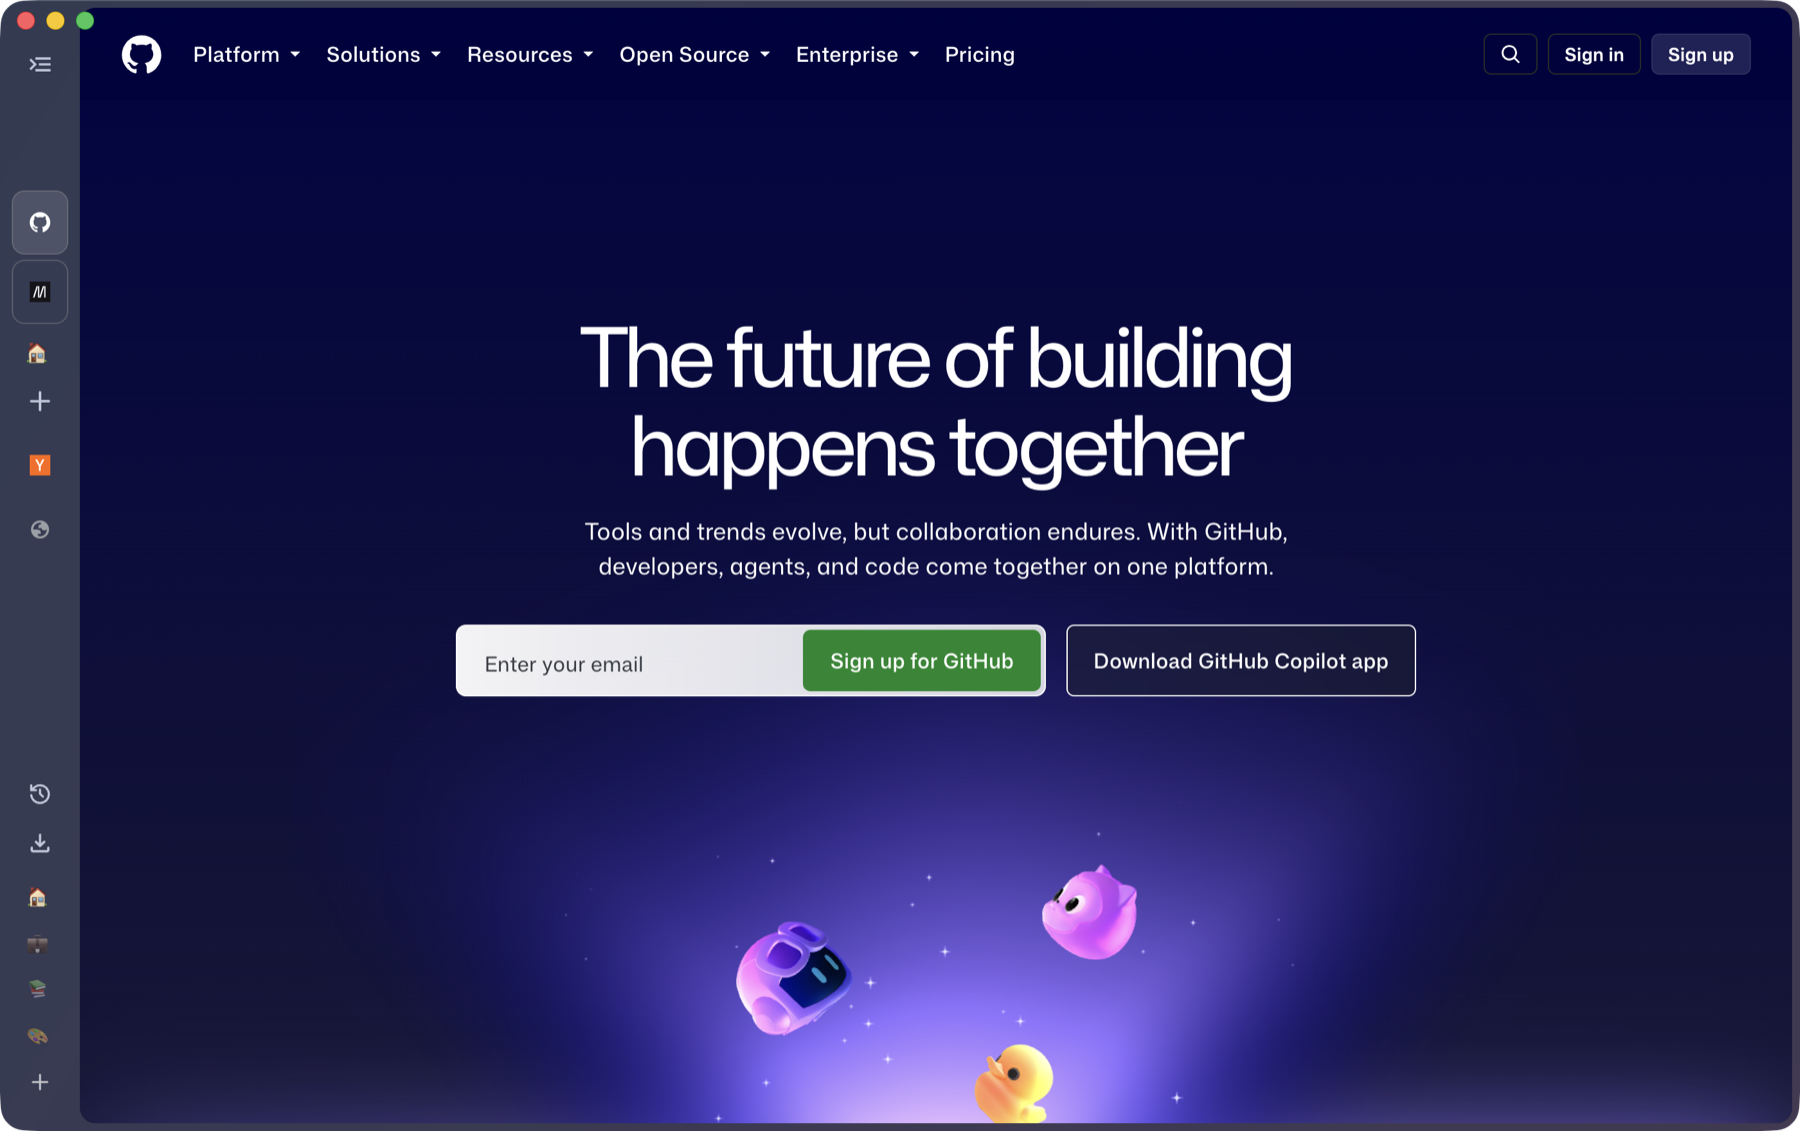
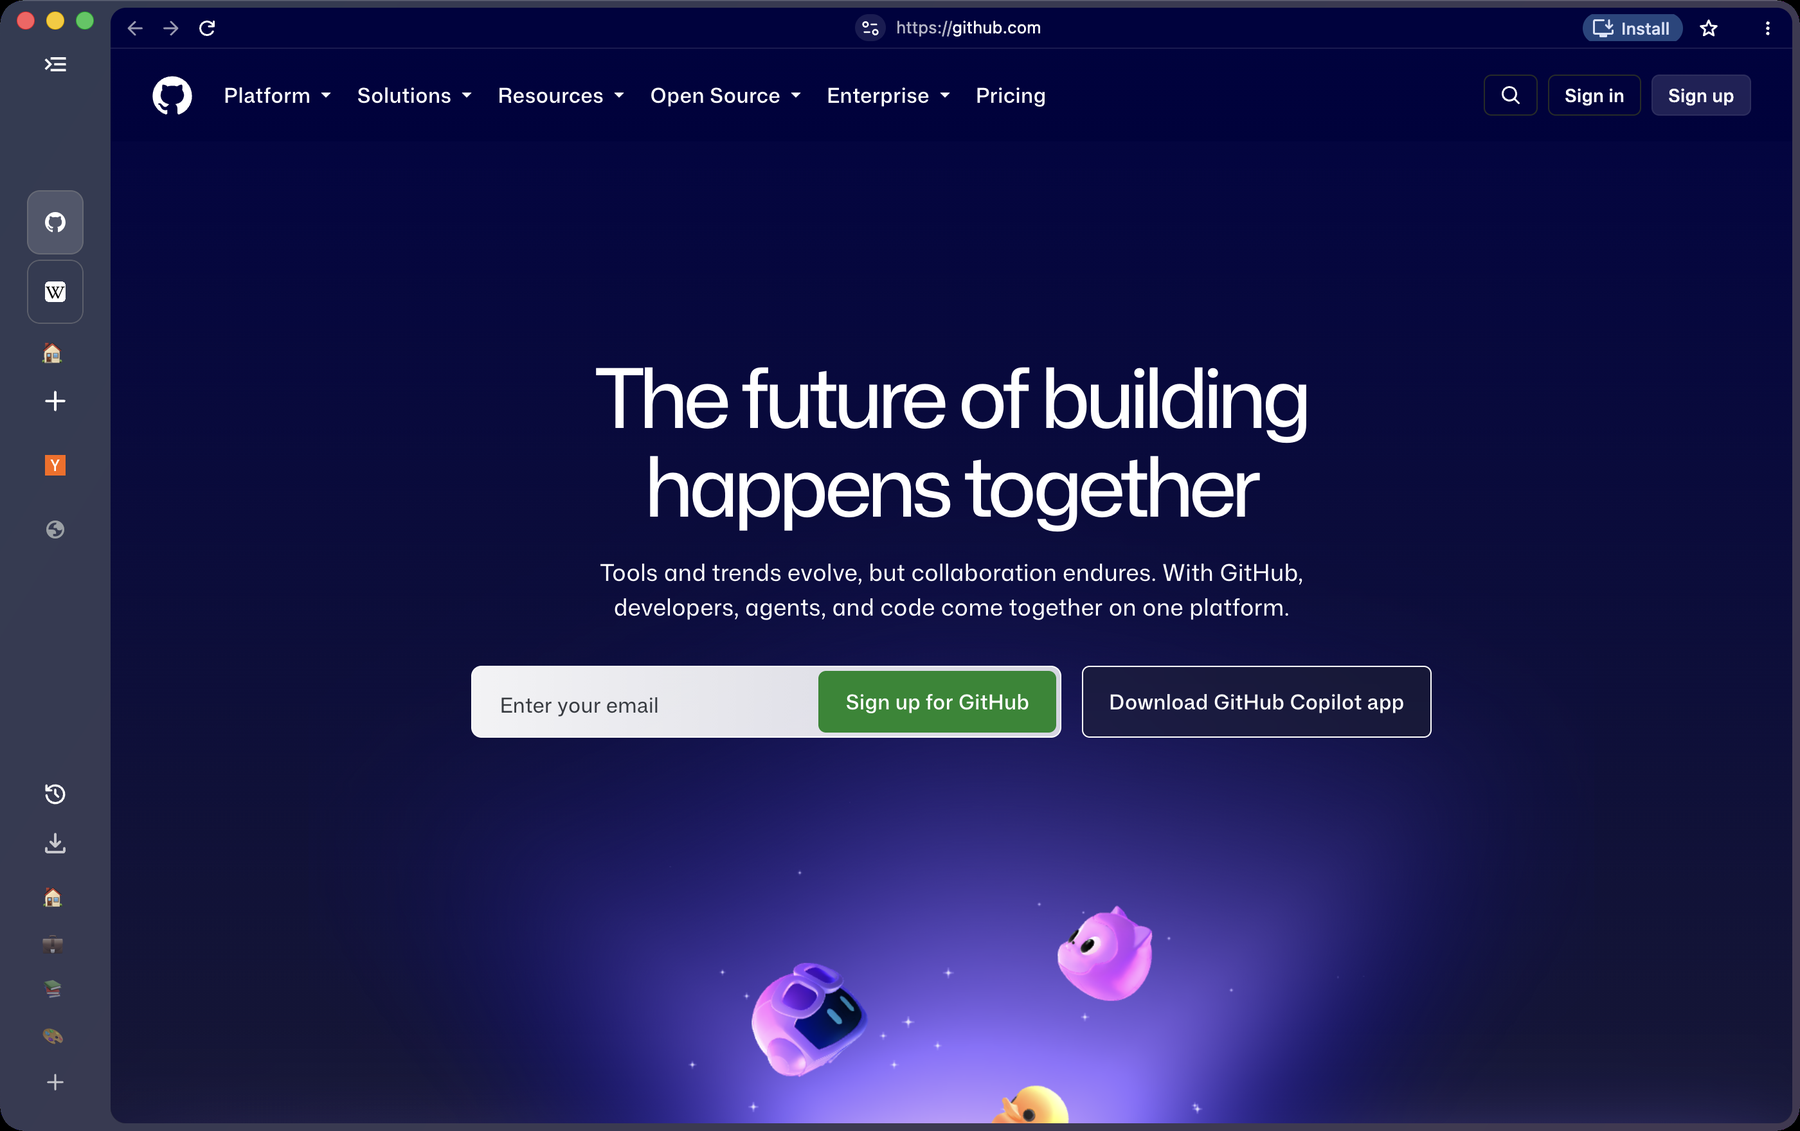
release: v0.2.0-beta.11 for the Mac
The macOS image of the series with patch 0058 complete: the owner's
report on beta 10 and the five faults the live pass found after it.
Signed with the Developer ID and notarized; verify-build and Apple's
distribution check pass on the signed app, and the full sweep is green
on the exact build (828 unit, 19 component, 157 browser tests).

README and INSTALL name beta 11 and say the Windows preview stays on
beta 10's installer until the PC builds this tag; the README's rail
picture is retaken with the address row that now stays when the sidebar
collapses.

diff --git a/docs/release-notes/v0.2.0-beta.11.md b/docs/release-notes/v0.2.0-beta.11.md
@@ -1,0 +1,100 @@
+# Stedding 0.2.0 beta 11
+
+Chromium **155.0.8059.12** (stable), the **macOS image** (Apple silicon, signed and
+notarized), Stedding's patch series (`patches/README.md`). This beta is the owner's report
+on beta 10 and what a pass over the Mac build with the real pointer and keyboard found
+after it. Windows stays on beta 10's installer (below): the fixes here are in the shared
+series, and the Windows image of this tag is still to be built on the Windows PC.
+
+## What changed since beta 10
+
+- **Tabs select on a click again, in long lists.** With a long list the sidebar's empty
+  bottom bar sat hidden over the rows, and the window read every press there as a drag of
+  the window: a click worked once and then got stuck. Rows click in the open sidebar and
+  in the collapsed rail.
+- **Tabs brought over from Arc load after a restart.** They came back as crashed pages: a
+  tab the import made without loading it saved a value the next start rejected.
+- **Collapsing the sidebar keeps the address bar.** ⌘S used to hide the address row with
+  the sidebar, which read as the address bar disappearing. The row stays now; Settings →
+  Stedding → "Hide the address row with the sidebar" brings the old behaviour back, and
+  ⇧⌘D shows or hides the row on its own.
+- **The address row is the colour of the page's top edge, exactly.** Many sites draw their
+  colour with a layer the page's declared colour knows nothing of (farcaster.xyz's purple,
+  Google's sign-in page in dark mode); the row now reads the colour the page draws along
+  its top, then the declared colour. It is read in the right colour space, so a saturated
+  page and its row match to the unit, and full screen does the same with one hairline
+  under the row.
+- **The Space swipe follows your fingers.** The Space's title and list move with a
+  two-finger swipe across the sidebar and fade; lifted short they spring back, lifted
+  past the distance the next Space slides in from the side your fingers left.
+- **Switching Space is quick with hundreds of tabs.** On a large imported profile a switch
+  showed nothing for half a second; it now shows the new Space in under a tenth of a second.
+- **Space chips stay icons longer.** The gaps between them close up before they turn to
+  dots, so eight Spaces fit as icons in an ordinary sidebar.
+- **Smaller things:** folder names are readable in light mode; the collapsed rail no
+  longer draws a clipped "Clear" label.
+
+## For macOS, coming from beta 10
+
+Drag the new **Stedding** over the old one in Applications. Your profile, in
+`~/Library/Application Support/Stedding`, stays where it is. Everything in beta 10's notes
+about the move from beta 8 still holds for anyone coming from beta 8 or earlier.
+
+## How it was checked
+
+On macOS 26 on Apple silicon, on the series this tag carries:
+
+- `tooling/dev test all` on the exact build: 828 unit tests (Chromium's own suites around
+  what the series touches among them), 19 component tests (the keychain and search legs) and
+  157 browser tests, green. The five fixes from the live pass below each have a test that
+  failed without them.
+- The window used with the real pointer and keyboard, on a copy of a large Arc-imported
+  profile and on a fresh one: three restarts with the last session (no crashed tabs, the
+  imported tabs load), clicks in the open sidebar and the rail, ⌘S, swipes short and long,
+  ⌃1–⌃9, full screen in and out, the row's colour measured against the page on five pages,
+  a video pin sent home with Option-click and then its own fullscreen button, Esc and the
+  window's close button, the View menu's "Always Show Full URLs", the welcome flow, ⌘T,
+  folders, a drag onto a folder, a split, Settings, light and dark.
+- `tooling/verify-build` on the signed app: the page, WebGL 1 and 2, VP9, AV1 and
+  H.264 + AAC decoding real frames, full screen over a themed page and navigation, all
+  passed; Apple's `syspolicy_check distribution` passed it as ready for distribution.
+
+## Install
+
+### macOS
+
+`Stedding-0.2.0-beta.11-arm64.dmg`: check the checksum below, open the DMG, drag
+**Stedding** to Applications and open it. It is signed with the project's Developer ID and
+notarized by Apple, so macOS opens it with no extra step. Apple silicon (M1 or later) and
+macOS 13 or later. There are no automatic updates yet (`S-74`): a newer Stedding is
+dragged over this one.
+
+### Windows
+
+No Windows installer in this drop. Beta 10's `Stedding-0.2.0-beta.10-win-x64.exe` remains
+the current Windows preview until this tag gains its `.exe` from the Windows PC.
+
+## Checksum
+
+```
+shasum -a 256 Stedding-0.2.0-beta.11-arm64.dmg
+572688a55a61572c08ee22629b2daabc474d5d2e14df17ea98901fcd3903e4bb  Stedding-0.2.0-beta.11-arm64.dmg
+```
+
+The macOS image is 177 MB, built on 2026-10-02 from the commit this tag points to; the app
+in it is signed with the project's Developer ID and notarized by Apple, the ticket stapled.
+
+## Known limits
+
+- No automatic updates yet (`S-74`).
+- While Arc is running it takes ⌥⌘N from every app for its Little Arc window, so ⌥⌘N
+  opens Arc instead of a split; quit Arc, or use **New Split View with Current Tab** on a
+  tab's right-click menu (`S-79`).
+- The welcome flow's import step runs under its footer when Arc is installed: scroll it to
+  reach Firefox and the bookmarks file (`S-76`). Every search engine in its first step shows
+  a globe for an icon (`S-77`).
+- ⌃1–⌃9 collide with macOS Mission Control's "Switch to Desktop N" once a second desktop
+  exists; the Spaces menu keeps the commands reachable.
+- The rail's names under VoiceOver and a Mac under the IncognitoModeAvailability policy are
+  not checked yet (`PLAN.md` WIN-3, CMD-7). In dark mode a page with no icon shows a faint
+  globe on the active row (`S-73`). A Space chip shows its name twice after a drag (`S-70`).

diff --git a/README.md b/README.md
@@ -59,8 +59,8 @@ project's own tooling; every claim below is backed by a test or a measured captu
 
 ## Download
 
-The current release is **0.2.0 beta 10**, built on Chromium 155.0.8059.12 (stable): the macOS image,
-signed and notarized, and a Windows preview. Get them from
+The current release is **0.2.0 beta 11**, built on Chromium 155.0.8059.12 (stable): the macOS image,
+signed and notarized. The Windows preview is beta 10's installer until beta 11's joins it. Get them from
 [stedding.dev](https://stedding.dev/#download) or the
 [Releases page](https://github.com/ysalitrynskyi/stedding-browser/releases/latest):
 
@@ -69,9 +69,8 @@ signed and notarized, and a Windows preview. Get them from
 | macOS, Apple silicon (M1 or later), macOS 13 or later | `Stedding-<version>-arm64.dmg` | Open the DMG, drag **Stedding** to Applications and open it: the image is signed and notarized ([details](docs/INSTALL.md#macos-apple-silicon)). |
 | Windows 10 / 11, x64 | `Stedding-<version>-win-x64.exe` | Installs for the current user, no administrator prompt. If SmartScreen appears: **More info → Run anyway**, once. |
 
-The builds are **not yet code-signed** (an Apple developer account exists; the
-certificate and notarisation are the next step), which is why the first launch needs
-that one extra click. A SHA-256 checksum for each file is in the release notes; the
+The Windows installer is **not yet code-signed**, which is why SmartScreen asks once; the
+macOS image is signed and notarized. A SHA-256 checksum for each file is in the release notes; the
 [install guide](docs/INSTALL.md) shows how to verify it, where your data lives, and how
 to update or uninstall.
 
@@ -105,7 +104,7 @@ it, click the favicon and you are back.
 address row stays; a setting hides it with the sidebar, and ⇧⌘D shows or hides it on
 its own.
 
-![The sidebar collapsed to a rail of icons](docs/images/readme/rail.png)
+![The sidebar collapsed to a rail of icons, the address row still across the top in the page's colour](docs/images/readme/rail.png)
 
 **Light and dark.** Sand by day, a blue-to-plum gradient by night, following the
 system or your choice; each Space's colour tints the sidebar.
@@ -247,7 +246,7 @@ and what comes next:
 
 | | State |
 |---|---|
-| macOS (Apple silicon) | Beta releases since 2026-09-01; the current one is beta 10, the first signed and notarized |
+| macOS (Apple silicon) | Beta releases since 2026-09-01; the current one is beta 11, signed and notarized as every macOS image is from beta 10 on |
 | Windows x64 | Preview installer since beta 5, on Chromium 155 from beta 9: the full interface, Arc's keys for Windows, a per-user install; both test suites also run clean with DCHECKs (beta 10) and under AddressSanitizer (beta 9's tree) |
 | Code signing and notarisation | The macOS image is signed with the Developer ID and notarized from beta 10 on; Windows is not signed yet, and automatic updates come next (`S-17`, `S-74` in [BACKLOG.md](BACKLOG.md)) |
 | Automatic updates | After signing; checks go to GitHub Releases, with no identifier (ADR 0014) |

diff --git a/docs/PROJECT-LOG.md b/docs/PROJECT-LOG.md
@@ -6,6 +6,30 @@ This file was the "State of the project" section of `AGENTS.md` until 2026-09-30
 unchanged, and is where the dated record goes from now on: an agent opening the repo cold
 should not have to read four hundred lines of rounds to learn the rules.
 
+## 2026-10-02 -- round 11 seen live, and beta 11
+
+Patch 0058 (the owner's report on beta 10) had passed its tests without anyone looking at
+it; the Mac then used the release build with the real pointer and keyboard on a copy of the
+owner's profile and on a fresh one.
+
+- **Round 11's live column, filled in** (`docs/ARC-ROUND2.md`): three restarts of the copy with
+  no "reason 332" and the imported tabs loading; rows clicked in the open sidebar and the rail;
+  ⌘S keeping the address row; the swipe following the fingers; the eight Spaces as icons; the
+  row's colour against the page on five pages and in full screen. TAB-3's and WIN-21's Mac
+  halves passed too (`PLAN.md`).
+- **Five faults found and fixed in 0058**, each with a test that failed first: the page's top
+  read in the display's colour space (Display P3) and painted as sRGB (toolbar T31); a Space
+  switch that showed nothing for half a second on the owner's profile, because the Space's tint
+  re-themed every row and each row laid the whole list out again and redrew its folder glyph
+  (spaces B36, found with `sample`, HANDOFF trap 65); a second line under the row in full screen
+  (T32); the rail's Clear label clipped to "lear" (B17); folder names nearly invisible in light
+  mode (folders F12). Logged instead: S-76 to S-80.
+- **Two things about the harness**: the round 11 swipe helper set the event's line delta, which
+  makes macOS report eight times the travel (trap 63), and Arc takes ⌥⌘N from every app while
+  it runs (trap 64, `S-79`).
+- **Beta 11**, the macOS image of this series, signed and notarized; Windows stays on beta 10's
+  installer until the PC builds this tag.
+
 ## 2026-10-01 -- the Mac's half of beta 10
 
 The Mac took the PC's series as it was, re-exported byte for byte from the Mac checkout (a

diff --git a/docs/INSTALL.md b/docs/INSTALL.md
@@ -2,7 +2,9 @@
 
 Stedding ships as beta pre-releases on the
 [Releases page](https://github.com/ysalitrynskyi/stedding-browser/releases). Each
-release carries one file per platform and a SHA-256 checksum for each.
+release carries a file for each platform it was built for, and a SHA-256 checksum for
+each. When the newest release has no file for your platform, take it from the one before:
+beta 11 is the macOS image only, and the Windows preview is beta 10's installer.
 
 The macOS image is signed with the project's Developer ID and notarized by Apple from
 beta 10 on, so it opens like any other app. The Windows installer is **not code-signed
@@ -67,7 +69,8 @@ Keychain Access.
 
 Requirements: Windows 10 or 11, 64-bit.
 
-1. Download `Stedding-<version>-win-x64.exe` from the latest release.
+1. Download `Stedding-<version>-win-x64.exe` from the newest release that has one
+   (beta 10's, while beta 11 is the macOS image only).
 2. Run it. If SmartScreen shows "Windows protected your PC", click **More info**, then
    **Run anyway**. This is needed once.
 3. Stedding installs for the current user only, into `%LOCALAPPDATA%\Stedding`, with no
